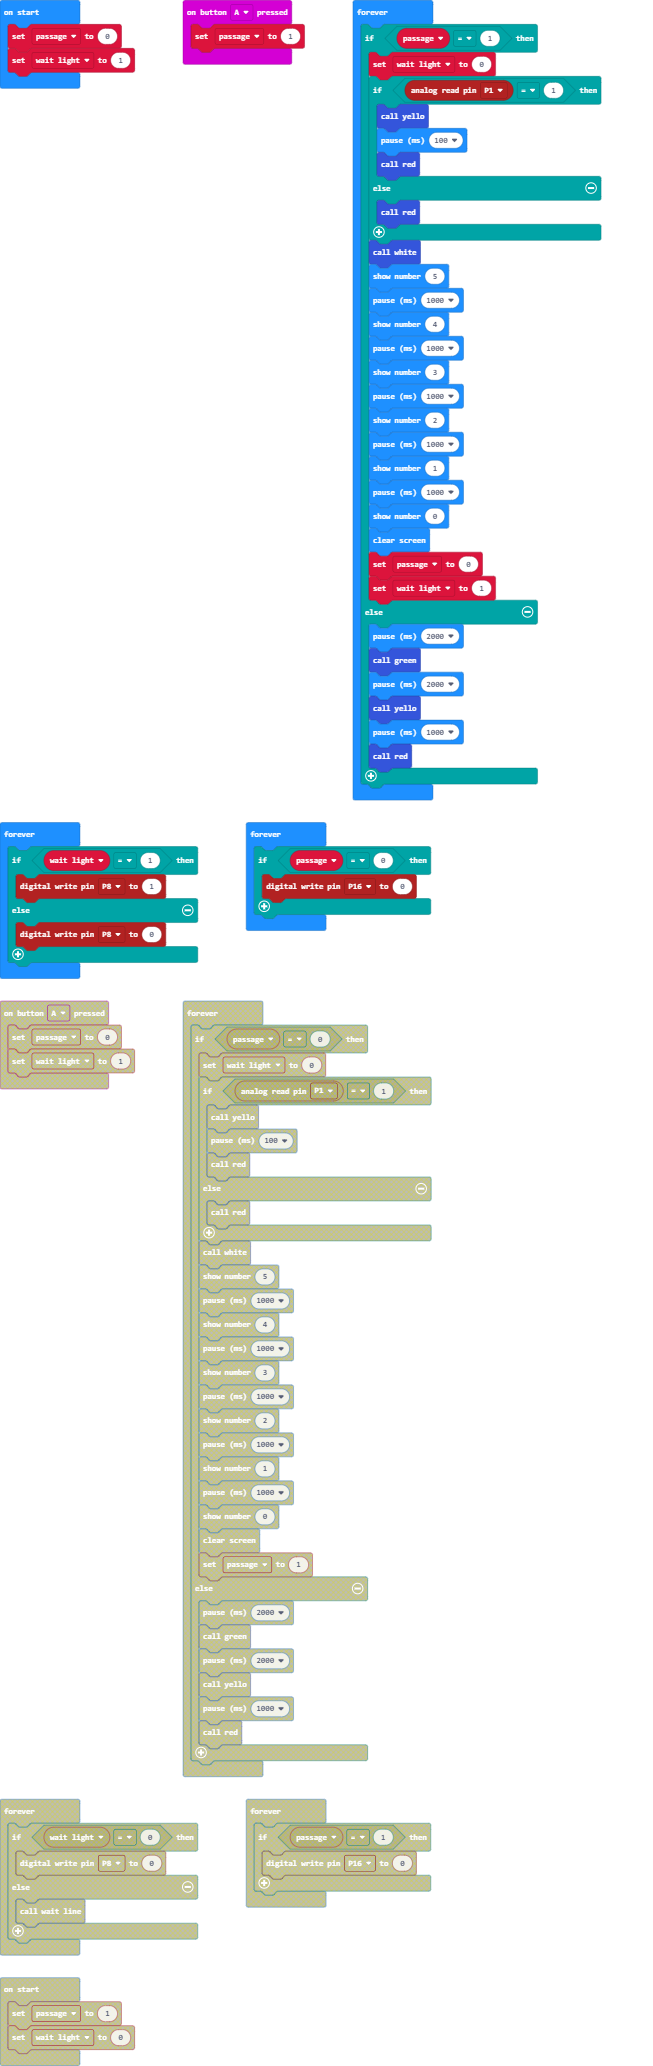
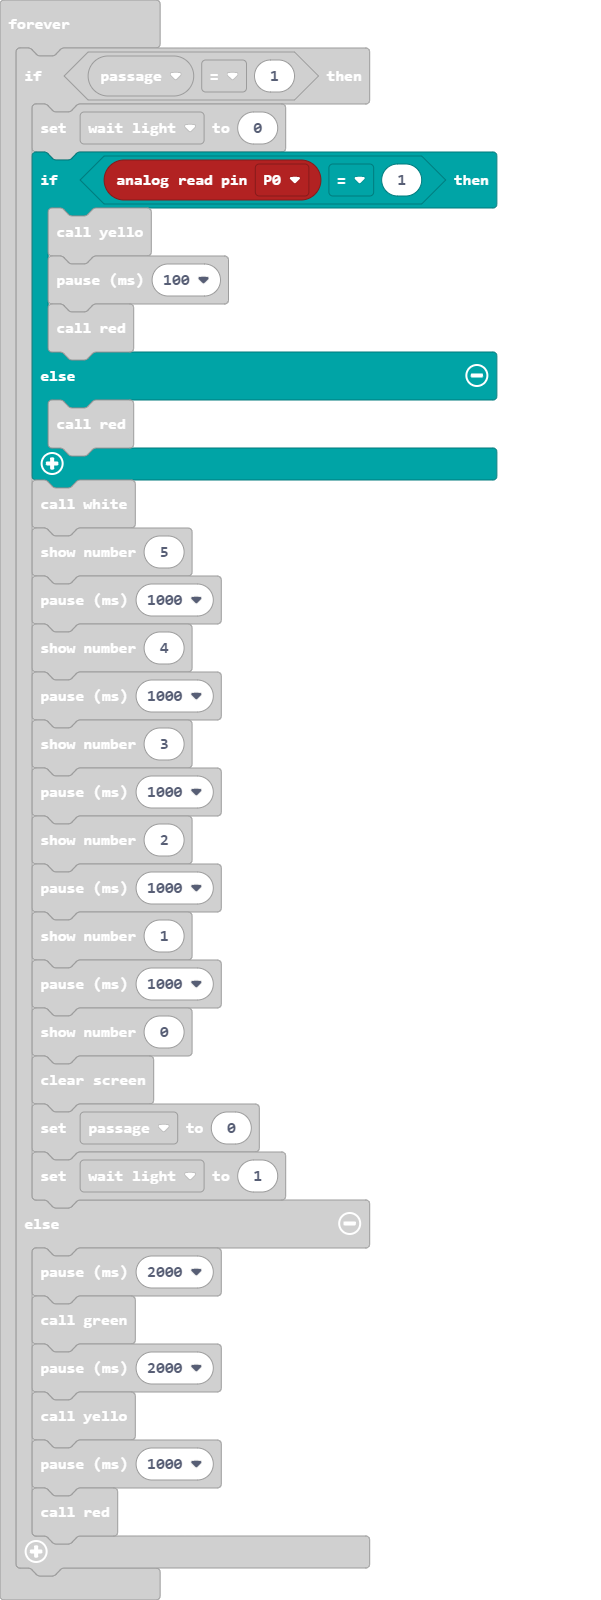
Update main.blocks, main.ts, main.py

diff --git a/main.ts b/main.ts
@@ -28,7 +28,7 @@ let wait_light = 1
 basic.forever(function () {
     if (passage == 1) {
         wait_light = 0
-        if (pins.analogReadPin(AnalogPin.P1) == 1) {
+        if (pins.analogReadPin(AnalogPin.P0) == 1) {
             yello()
             basic.pause(100)
             red()

diff --git a/main.py b/main.py
@@ -8,9 +8,8 @@ def white():
     pins.digital_write_pin(DigitalPin.P16, 1)
 
 def on_button_pressed_a():
-    global passage, wait_light
-    passage = 0
-    wait_light = 1
+    global passage
+    passage = 1
 input.on_button_pressed(Button.A, on_button_pressed_a)
 
 def yello():
@@ -21,16 +20,15 @@ def red():
     pins.digital_write_pin(DigitalPin.P0, 0)
     pins.digital_write_pin(DigitalPin.P1, 0)
     pins.digital_write_pin(DigitalPin.P2, 1)
-wait_light = 0
 passage = 0
-passage = 1
-wait_light = 0
+passage = 0
+wait_light = 1
 
 def on_forever():
     global wait_light, passage
-    if passage == 0:
+    if passage == 1:
         wait_light = 0
-        if pins.analog_read_pin(AnalogPin.P1) == 1:
+        if pins.analog_read_pin(AnalogPin.P0) == 1:
             yello()
             basic.pause(100)
             red()
@@ -49,7 +47,8 @@ def on_forever():
         basic.pause(1000)
         basic.show_number(0)
         basic.clear_screen()
-        passage = 1
+        passage = 0
+        wait_light = 1
     else:
         basic.pause(2000)
         green()
@@ -60,13 +59,13 @@ def on_forever():
 basic.forever(on_forever)
 
 def on_forever2():
-    if wait_light == 0:
-        pins.digital_write_pin(DigitalPin.P8, 0)
+    if wait_light == 1:
+        pins.digital_write_pin(DigitalPin.P8, 1)
     else:
-        wait_line()
+        pins.digital_write_pin(DigitalPin.P8, 0)
 basic.forever(on_forever2)
 
 def on_forever3():
-    if passage == 1:
+    if passage == 0:
         pins.digital_write_pin(DigitalPin.P16, 0)
 basic.forever(on_forever3)
